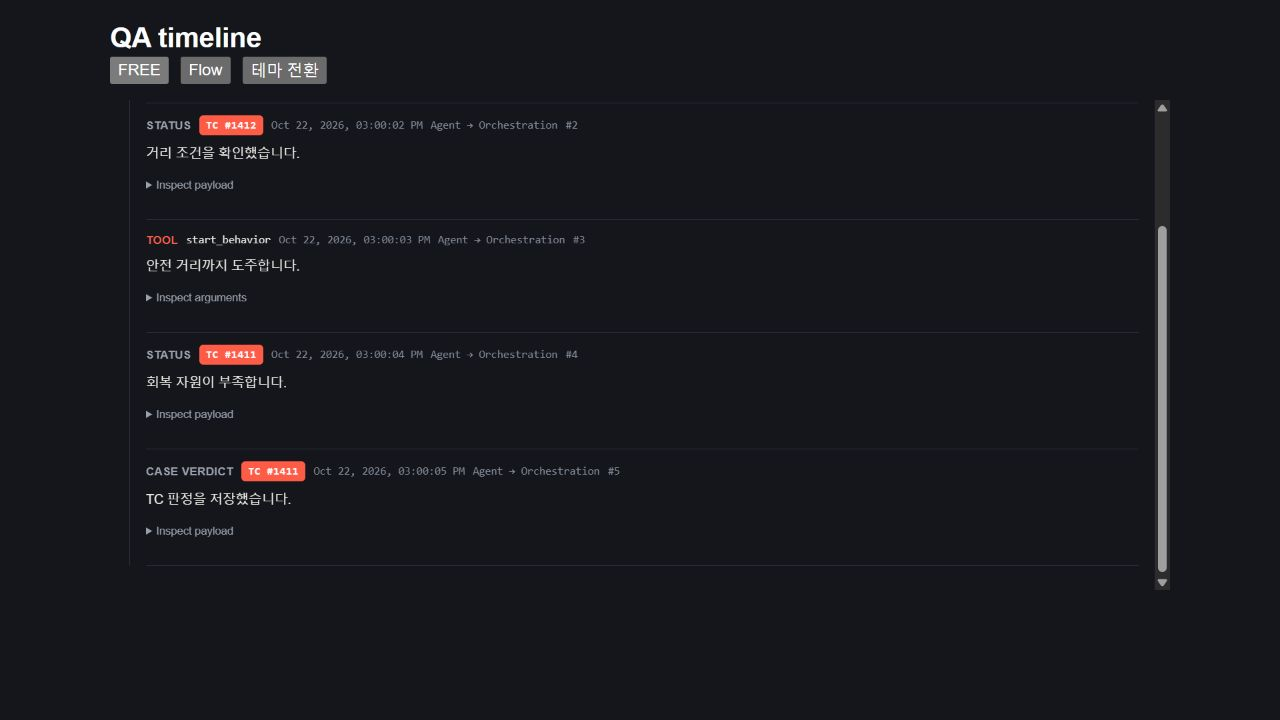
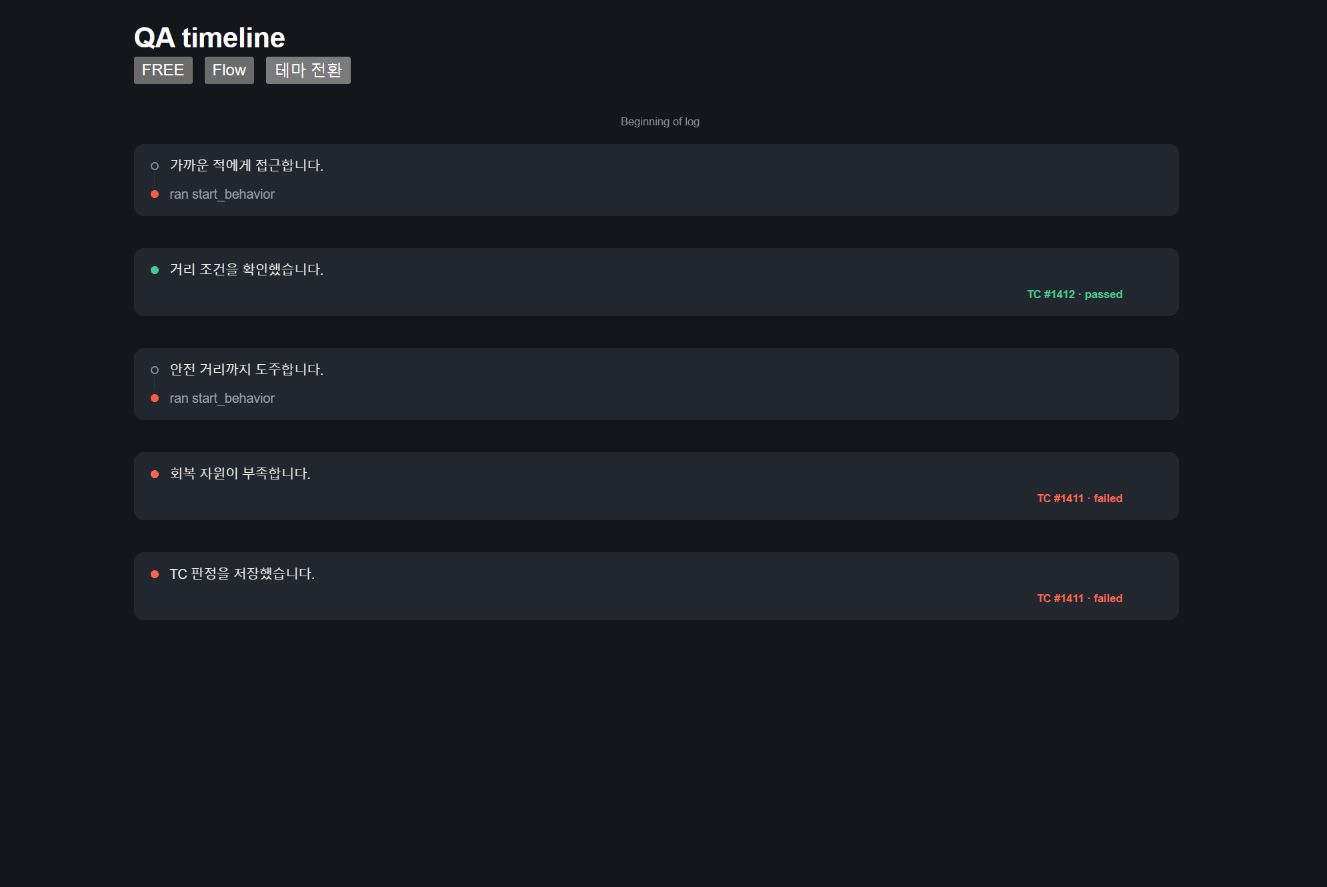
fix(qa): FREE와 ORDERED의 Flow 카드 스타일 통일

diff --git a/src/qa/QaLogTimeline.tsx b/src/qa/QaLogTimeline.tsx
@@ -18,7 +18,7 @@ import {
   type TimelineEvent,
   type TimelineRow,
 } from './qaLogGrouping'
-import { buildFlowSteps, objectNamesOf, type FlowAction, type FlowLine, type FlowStep } from './qaFlow'
+import { buildFreeFlow, buildFlowSteps, objectNamesOf, type FlowAction, type FlowLine, type FlowStep } from './qaFlow'
 import { stepOf } from './qaProgress'
 import type { QaLog } from './qaTypes'
 
@@ -180,7 +180,7 @@ function QaFlowDot({ kind, last }: { kind: FlowLine['kind'] | 'blocked' | 'verdi
  * 판정은 글이 아니라 덩어리의 상태다. 오른쪽 아래에 통과 · 실패만 붙고, 아무것도 안 해 보고
  * 내린 판정이면 그렇게 적는다 — try 46 에서 43 스텝 중 32 가 그랬다.
  */
-function QaFlowStep({ block }: { block: FlowStep }) {
+function QaFlowStep({ block, free = false, caseId = null, logId }: { block: FlowStep; free?: boolean; caseId?: string | null; logId?: string }) {
   const { t } = useI18n()
   const text = t.qa.run
 
@@ -203,16 +203,16 @@ function QaFlowStep({ block }: { block: FlowStep }) {
           block.passed ? text.flowPassed : text.flowFailed,
           // 실패에만 붙인다. 보기만 하면 되는 TC 가 많아서(try 46 의 조작 0회 스텝 대부분이
           // 그렇다) 통과에 붙이면 멀쩡한 판정을 흠처럼 읽게 한다.
-          !block.passed && block.attempts === 0 ? text.flowNoAttempt : null,
+          !free && !block.passed && block.attempts === 0 ? text.flowNoAttempt : null,
         ]
           .filter((part): part is string => part !== null)
           .join(' · ')
 
   return (
-    <li className="qa-flow-step" data-log-id={block.lines[0]?.id}>
+    <li className="qa-flow-step" data-log-id={logId ?? block.lines[0]?.id}>
       <div className="qa-flow-card">
         {/* 한 TC 가 스텝 여럿에 걸칠 때 어디서 갈리는지, 그리고 레일의 몇 번째인지를 잇는다. */}
-        <p className="qa-flow-step-no">{text.flowStepLabel(block.step)}</p>
+        {!free && <p className="qa-flow-step-no">{text.flowStepLabel(block.step)}</p>}
         {shown.map((line, at) => {
           // 판정 줄이 아래에 붙으므로 마지막 조작 줄에서도 선을 잇는다.
           const last = at === shown.length - 1 && block.passed === null
@@ -243,7 +243,7 @@ function QaFlowStep({ block }: { block: FlowStep }) {
             <div className="qa-flow-said">
               {block.reason !== null && <p className="qa-flow-reason">{block.reason}</p>}
               {/* 결과는 이유에 이어 붙이지 않는다. 붙이면 모델이 쓴 문장의 일부처럼 읽힌다. */}
-              <p className="qa-flow-call">{verdict}</p>
+              <p className="qa-flow-call">{caseId !== null && <span translate="no">TC #{caseId} · </span>}{verdict}</p>
             </div>
           </div>
         )}
@@ -458,6 +458,10 @@ export function QaLogTimeline({
   const flowSteps = useMemo(
     () => (orderedFlow ? buildFlowSteps(logs, objectNamesOf(logs)) : []),
     [orderedFlow, logs],
+  )
+  const freeFlow = useMemo(
+    () => flow && executionMode === 'FREE' ? buildFreeFlow(logs, objectNamesOf(logs), scenarioSteps) : [],
+    [flow, executionMode, logs, scenarioSteps],
   )
   const viewportRef = useRef<HTMLDivElement>(null)
   const sentinelRef = useRef<HTMLDivElement>(null)
@@ -740,7 +744,7 @@ export function QaLogTimeline({
         {!hasMore && <span>Beginning of log</span>}
       </div>
 
-      <ol className={orderedFlow ? 'qa-flow-list' : 'qa-log-list'}>
+      <ol className={flow ? 'qa-flow-list' : 'qa-log-list'}>
         {orderedFlow
           ? flowGroups.map((group) => (
               <li className="qa-flow-group" key={group.key}>
@@ -756,7 +760,9 @@ export function QaLogTimeline({
                 </ol>
               </li>
             ))
-          : listItems.map((item) => {
+          : flow ? freeFlow.map((block) => (
+              <QaFlowStep block={block} free caseId={block.caseId} logId={block.id} key={block.id} />
+            )) : listItems.map((item) => {
               if (item.kind === 'header') {
             return (
               <li className="qa-log-section" key={item.id}>

diff --git a/src/qa/qaFlow.ts b/src/qa/qaFlow.ts
@@ -1,3 +1,5 @@
+import { asRecord } from '../projects/projectApi'
+import type { ScenarioStep } from '../testScenarios/scenarioTypes'
 import type { ExecutionMode } from '../testScenarios/scenarioTypes'
 import { toolCallOf, type ToolCall } from './qaLogGrouping'
 import { stepOf } from './qaProgress'
@@ -227,10 +229,52 @@ export function buildFlowSteps(logs: readonly QaLog[], names: ObjectNames): Flow
   return steps
 }
 
-/** FREE는 TC 구간을 추정하지 않으므로 PULSE를 행으로 표시할 필요가 없다. */
+/** PULSE는 조작 대상 이름 조회에 사용하고 행으로 표시하지 않는다. */
 export function filterFlowLogs(logs: readonly QaLog[], executionMode: ExecutionMode): QaLog[] {
   const types = executionMode === 'FREE'
-    ? new Set<QaLog['type']>(['TOOL', 'TOOL_RESULT', 'STATUS', 'CASE_VERDICT'])
+    ? new Set<QaLog['type']>(['TOOL', 'TOOL_RESULT', 'STATUS', 'CASE_VERDICT', 'PULSE'])
     : new Set<QaLog['type']>(['TOOL', 'TOOL_RESULT', 'STATUS', 'PULSE'])
   return logs.filter((log) => types.has(log.type))
+}
+
+/** FREE는 TC별로 다시 모으지 않고 행동과 판정을 도착 순서대로 표시한다. */
+export function buildFreeFlow(logs: readonly QaLog[], names: ObjectNames, scenarioSteps: ScenarioStep[]): (FlowStep & { id: string; caseId: string | null })[] {
+  const outputs = new Map<string, string>()
+  for (const log of logs) {
+    const payload = asRecord(log.payload)
+    if (log.type === 'TOOL_RESULT' && typeof payload?.tool_call_id === 'string' && typeof payload.content === 'string') outputs.set(payload.tool_call_id, payload.content)
+  }
+  return logs.flatMap((log) => {
+    const payload = asRecord(log.payload)
+    const step = stepOf(log)
+    const block: FlowStep & { id: string; caseId: string | null } = {
+      id: log.id, step: step ?? 0, lines: [], passed: null, reason: null, attempts: 0, caseId: null,
+    }
+    if (log.type === 'STATUS' && step !== null && (payload?.status === 'COMPLETED' || payload?.status === 'FAILED')) {
+      block.passed = payload.status === 'COMPLETED'
+      block.reason = log.message
+      const caseId = scenarioSteps[step - 1]?.case_id
+      block.caseId = caseId == null ? null : String(caseId)
+      return [block]
+    }
+    if (log.type === 'CASE_VERDICT') {
+      const status = payload?.verification_status
+      const caseId = payload?.case_id
+      if ((typeof caseId !== 'string' && typeof caseId !== 'number') ||
+          (status !== 'VERIFIED' && status !== 'FAILED' && status !== 'REGRESSION')) return []
+      block.caseId = String(caseId)
+      block.passed = status === 'VERIFIED'
+      block.reason = log.message
+      return [block]
+    }
+    if (log.type !== 'TOOL') return []
+    const call = toolCallOf(log)
+    // 판정은 STATUS로 표시하므로 보고용 호출을 조작으로 중복 표시하지 않는다.
+    if (call === null || HIDDEN.has(call.tool) || call.tool === 'report_case' || call.tool === 'report_step') return []
+    if (call.thought !== null) block.lines.push({ kind: 'thought', id: log.id, key: `${log.id}#t`, text: call.thought })
+    const output = typeof payload?.tool_call_id === 'string' ? outputs.get(payload.tool_call_id) ?? null : null
+    block.lines.push({ kind: 'action', id: log.id, key: `${log.id}#a`, action: actionOf(call, names, output) })
+    block.attempts = 1
+    return [block]
+  })
 }

diff --git a/src/qa/QaLogTimeline.test.ts b/src/qa/QaLogTimeline.test.ts
@@ -48,6 +48,12 @@ for (const flow of [true, false]) {
     assert.doesNotMatch(middle, /TC #|qa-tc-badge/)
     assert.equal(html.includes('pulse-only'), !flow)
     assert.match(html, /saved-verdict/)
+    if (flow) {
+      assert.match(html, /qa-flow-card/)
+      assert.match(html, /qa-flow-dot--thought/)
+      assert.match(html, /qa-flow-dot--action/)
+      assert.doesNotMatch(html, /qa-log-meta|qa-flow-step-no|qa-flow-label/)
+    }
   })
 }
 test('FREE의 매핑 없는 STATUS와 비판정 STATUS에는 TC를 추정하지 않는다', () => {
@@ -61,4 +67,12 @@ test('ORDERED의 Flow 구간과 Raw 구간을 유지한다', () => {
   assert.match(render('ORDERED', true), /qa-flow-group/)
   assert.match(render('ORDERED', false), /qa-log-section/)
   assert.deepEqual(filterFlowLogs(logs, 'ORDERED').map((entry) => entry.id), ['1','2','3','4','6'])
+})
+
+test('FREE는 STATUS가 없는 부분 히스토리의 TC 판정도 같은 카드로 표시한다', () => {
+  const html = render('FREE', true, [logs[4]])
+  assert.match(html, /TC #101/)
+  assert.match(html, /saved-verdict/)
+  assert.match(html, /qa-flow-verdict--failed/)
+  assert.doesNotMatch(html, /qa-flow-label|qa-flow-step-no/)
 })
